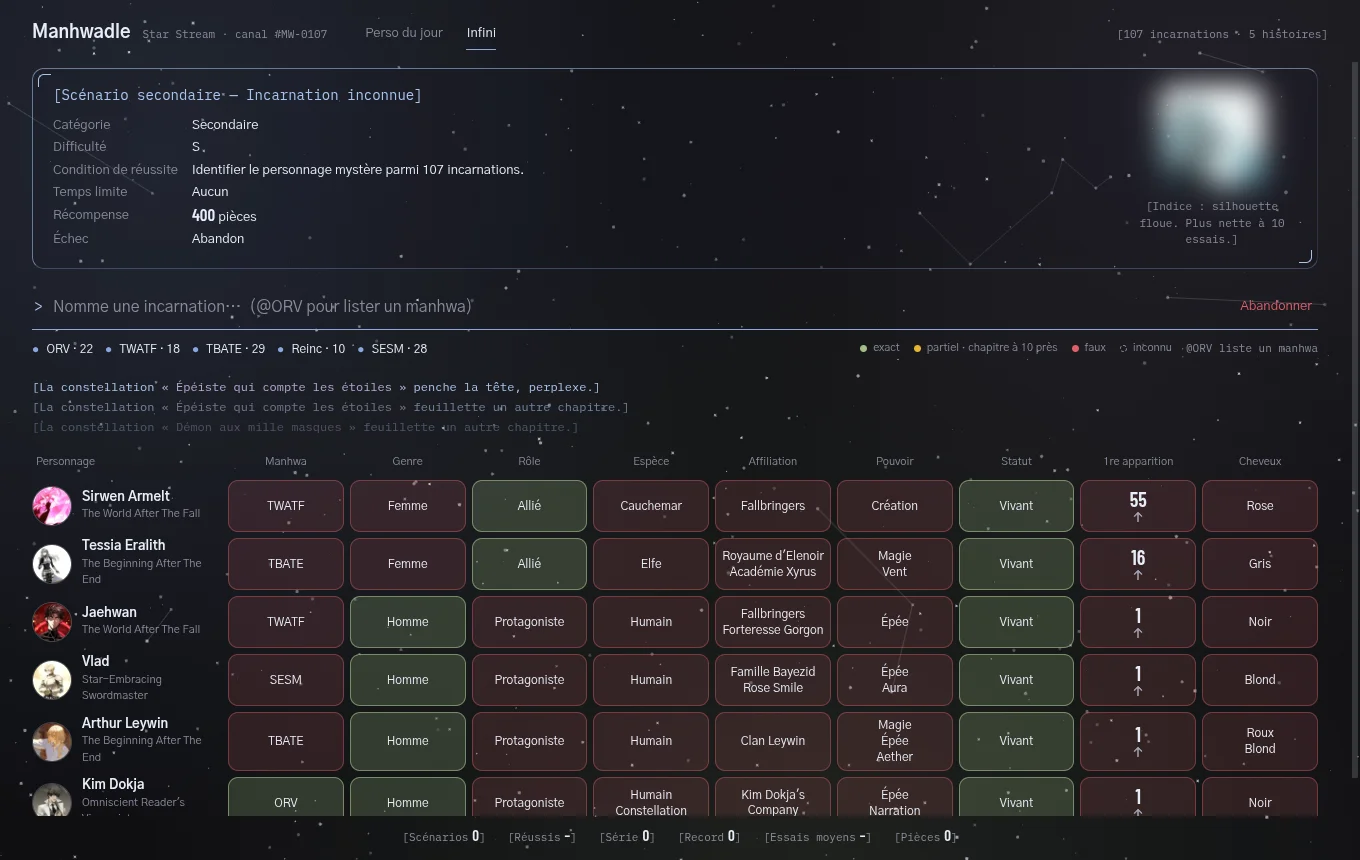
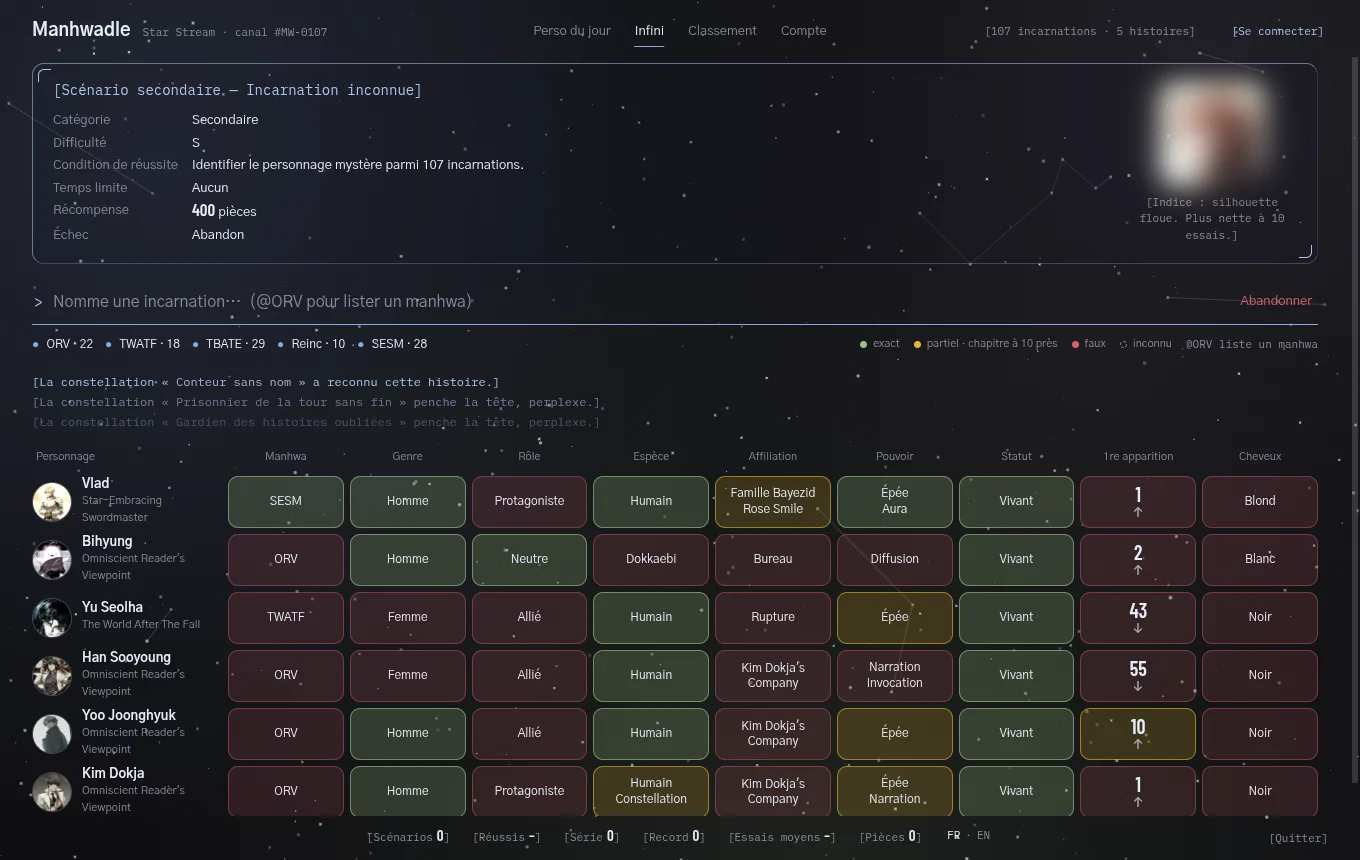
docs(readme): met l'essentiel technique en tête, ajoute le schéma d'architecture
Corrige aussi les lignes devenues fausses depuis le perso du jour côté serveur, et refait les captures.

diff --git a/README.md b/README.md
@@ -5,27 +5,64 @@
 [![Tests](https://github.com/Kureo524/Manhwadle/actions/workflows/ci.yml/badge.svg?branch=dev)](https://github.com/Kureo524/Manhwadle/actions/workflows/ci.yml)
 [![Builds](https://github.com/Kureo524/Manhwadle/actions/workflows/release.yml/badge.svg)](https://github.com/Kureo524/Manhwadle/actions/workflows/release.yml)
 
-**▶ [Jouer dans le navigateur](https://kureo524.github.io/Manhwadle/)** ·
+**▶ [Jouer dans le navigateur](https://kureo524.github.io/Manhwadle/)**, sans compte ni installation ·
 **[Télécharger](https://github.com/Kureo524/Manhwadle/releases/latest)** (Windows, macOS, Linux)
 
-**Sur téléphone :** ouvre le lien dans le navigateur puis « Ajouter à l'écran d'accueil » (Android : menu ⋮ → *Installer l'application* ; iPhone : Partager → *Sur l'écran d'accueil*). Le jeu s'installe comme une appli ; le mode Infini se joue hors ligne.
+![Une partie en cours](Docs/captures/partie.webp)
 
-> **In English —** Manhwadle is a daily character-guessing game (Wordle-like) set in five Korean web novels / webtoons.
-> Each guess is compared to the mystery character across 9 categories. It ships as a desktop app (Electron, sandboxed,
-> built for Windows, macOS and Linux by GitHub Actions) and as a browser version on GitHub Pages. The UI is an original
-> art direction inspired by the "system window" look of *Omniscient Reader's Viewpoint*. Personal fan project by
-> [Kilian Monnier](https://github.com/Kureo524), game developer (Unity / Unreal).
+> **In English:** Manhwadle is a daily character-guessing game (Wordle-like) set in five Korean web novels and webtoons.
+> Each guess is compared to the mystery character across 9 categories. It runs as a sandboxed Electron desktop app
+> (Windows, macOS, Linux) and an installable PWA, backed by a serverless API on Cloudflare Workers and D1: the server picks
+> the daily character and decides each game. The art direction is original, inspired by the "system window" look of
+> *Omniscient Reader's Viewpoint*. Personal fan project by [Kilian Monnier](https://github.com/Kureo524), game developer (Unity / Unreal).
+
+## En bref
+
+| | |
+|---|---|
+| **Le jeu** | Un « -dle » : retrouver un personnage parmi 107, comparé sur 9 catégories à chaque essai |
+| **Plateformes** | Windows, macOS, Linux (Electron), navigateur et téléphone (PWA hors ligne) |
+| **Pile technique** | JavaScript sans framework ni bundler, Electron 45, Cloudflare Workers, D1 (SQLite), GitHub Actions |
+| **Serveur** | Connexion Discord, parties décidées côté serveur, classement, limites de débit, purge planifiée |
+| **Qualité** | Tests du jeu et de l'API (exécutés sur le vrai Worker), ESLint, builds des 3 systèmes obligatoires avant chaque fusion |
+| **Sécurité** | Electron en bac à sable, CSP stricte, jetons stockés hachés, actions CI épinglées par SHA |
+
+## Architecture
+
+```mermaid
+flowchart LR
+  subgraph Clients
+    E["Appli de bureau<br>Electron"]
+    P["Site et PWA<br>GitHub Pages"]
+  end
+  subgraph Cloudflare
+    W["API<br>Worker"]
+    D[("D1<br>SQLite")]
+    H["Images d'indice<br>fichiers privés"]
+  end
+  C["Discord<br>OAuth2"]
+  E -- "HTTPS, jeton Bearer" --> W
+  P -- "HTTPS, jeton Bearer" --> W
+  W --> D
+  W --> H
+  W -- "connexion, avatars" --> C
+```
+
+- **Une seule interface** (`src/`) pour l'appli de bureau et le site. Seul le démarrage diffère.
+- **Mode Infini : tout sur l'appareil**, donc jouable sans compte et hors ligne.
+- **Perso du jour : tout sur le serveur.** Il choisit le personnage, reçoit les essais un par un et ne révèle la réponse qu'en fin de partie : le client ne peut pas la calculer.
+
+Le détail des choix est dans [Ce que j'ai construit](#ce-que-jai-construit).
+
+## Le jeu
 
 > [Un nouveau scénario est arrivé.]
 >
 > **Condition de réussite :** identifier l'incarnation mystère.
 > **Échec :** ???
 
-Manhwadle est un jeu de déduction standalone (Electron), dans la veine des « -dle ». Le but : retrouver
-un personnage de manhwa. À chaque essai, ton personnage est comparé au personnage mystère sur
+Le but : retrouver un personnage de manhwa. À chaque essai, ton personnage est comparé au personnage mystère sur
 9 catégories, et les constellations du Star Stream commentent ta progression.
-
-![Une partie en cours](Docs/captures/partie.webp)
 
 **Histoires disponibles** — 107 incarnations :
 
@@ -37,9 +74,9 @@ un personnage de manhwa. À chaque essai, ton personnage est comparé au personn
 | `@Reinc` | Reincarnator | 10 |
 | `@SESM` | Star-Embracing Swordmaster | 28 |
 
----
+**Sur téléphone :** ouvre [le site](https://kureo524.github.io/Manhwadle/) puis « Ajouter à l'écran d'accueil » (Android : menu ⋮ → *Installer l'application* ; iPhone : Partager → *Sur l'écran d'accueil*). Le jeu s'installe comme une appli ; le mode Infini se joue hors ligne.
 
-## Le scénario
+### Le scénario
 
 Deux modes, présentés comme des scénarios du Star Stream :
 
@@ -126,12 +163,14 @@ Le jeu l'interprète librement, dans l'ambiance d'ORV :
 | Domaine | Réalisation |
 |---|---|
 | **Gameplay** | Boucle de jeu « -dle » complète : deux modes, comparaison sur 9 catégories (exact / partiel / proximité de chapitre), indice progressif, statistiques, économie de pièces |
-| **Logique testée** | Module pur sans DOM (`src/logic.js`) : comparaison, tirage du jour déterministe (hachage FNV-1a), recherche avec tags `@` ; tests `node:test` qui valident aussi les 107 fiches et l'absence de portraits en double |
+| **Logique testée** | Module pur sans DOM (`src/logic.js`), partagé entre le client et le serveur : comparaison, recherche avec tags `@` ; tests `node:test` qui valident aussi les 107 fiches et l'absence de portraits en double |
 | **Données** | Pipeline depuis les API MediaWiki des wikis Fandom, galerie + import des portraits (ImageMagick → WebP 320×320), crédits par image |
 | **UI / DA** | Direction artistique originale « Verre d'encre », réinterprétée façon fenêtres système d'ORV : fenêtre transparente sous Hyprland, ciel de constellations animé en canvas, reflet du curseur, réactions des constellations |
-| **Application** | Electron 45 en bac à sable (données via IPC, navigation bloquée, permissions refusées, fuses), une seule page partagée avec la version web |
-| **Serveur** | API serverless Cloudflare Workers + D1 (SQLite) : connexion Discord OAuth2, sessions par jeton dont seul le SHA-256 est stocké, partie du jour **recalculée côté serveur** à partir de la même `src/logic.js` (impossible de tricher sur sa série), classement, suppression du compte |
-| **CI / livraison** | GitHub Actions : builds natifs Windows / macOS / Linux sur chaque PR, publication des binaires et de leurs empreintes SHA-256 sur tag, déploiement GitHub Pages (PWA installable, service worker hors ligne) ; actions épinglées par SHA |
+| **Application** | Electron 45 en bac à sable (données via IPC, navigation bloquée, permissions refusées, fuses), mises à jour automatiques, une seule interface partagée avec la version web, découpée par responsabilité dans `src/game/` |
+| **PWA** | Installable, jouable hors ligne : service worker généré au build, cache versionné par empreinte, mise à jour proposée dans le jeu |
+| **Serveur** | API serverless Cloudflare Workers + D1 : connexion Discord OAuth2, sessions par jeton dont seul le SHA-256 est stocké, personnage du jour choisi par HMAC et figé pour la journée, essais validés un par un, indices servis par le Worker, classement en cache, limites de débit, purge planifiée |
+| **Données personnelles** | Identifiant Discord jamais exposé, sortie du classement, export, suppression du compte, durées de conservation, [page de confidentialité](https://kureo524.github.io/Manhwadle/privacy.html), [procédures d'exploitation](Docs/Exploitation.md) |
+| **Tests / CI** | Tests du jeu et de l'API, ces derniers sur le vrai Worker avec une base D1 jetable ; ESLint ; builds natifs Windows, macOS et Linux sur chaque PR, tous obligatoires avant fusion ; publication des binaires et de leurs empreintes SHA-256 sur tag ; actions épinglées par SHA |
 | **Méthode** | Branches par feature, PR vers `dev`, `main` pour les versions validées, commits atomiques |
 
 ---
@@ -154,8 +193,8 @@ le tag `vX.Y.Z` : la CI construit et publie les binaires et leurs fichiers de mi
 
 Exécutable Linux : `npm run dist` → `dist/Manhwadle-<version>.AppImage` (nécessite `fuse2`).
 
-**Serveur** : l'API de connexion et de classement vit dans `server/` (`npm test` pour sa logique,
-`npx wrangler deploy` pour la publier).
+**Serveur** : l'API vit dans `server/`. `npm test` y lance les tests (Node 22 ou plus pour ceux qui exécutent le Worker),
+`npx wrangler deploy` la publie. Les opérations manuelles sont dans [`Docs/Exploitation.md`](Docs/Exploitation.md).
 
 ## Commandes
 
@@ -164,6 +203,7 @@ Exécutable Linux : `npm run dist` → `dist/Manhwadle-<version>.AppImage` (néc
 | `npm start` | lance le jeu |
 | `npm run site` | assemble la version navigateur dans `site/` |
 | `npm test` | logique du jeu, validation des données, portraits sans doublon |
+| `npm run lint` | ESLint sur tout le projet |
 | `npm run dist` | construit l'AppImage |
 | `npm run portraits:galerie` | page des portraits manquants, à enregistrer depuis le navigateur |
 | `npm run portraits:import` | importe `assets/inbox/<id>.<ext>` en portraits WebP |
